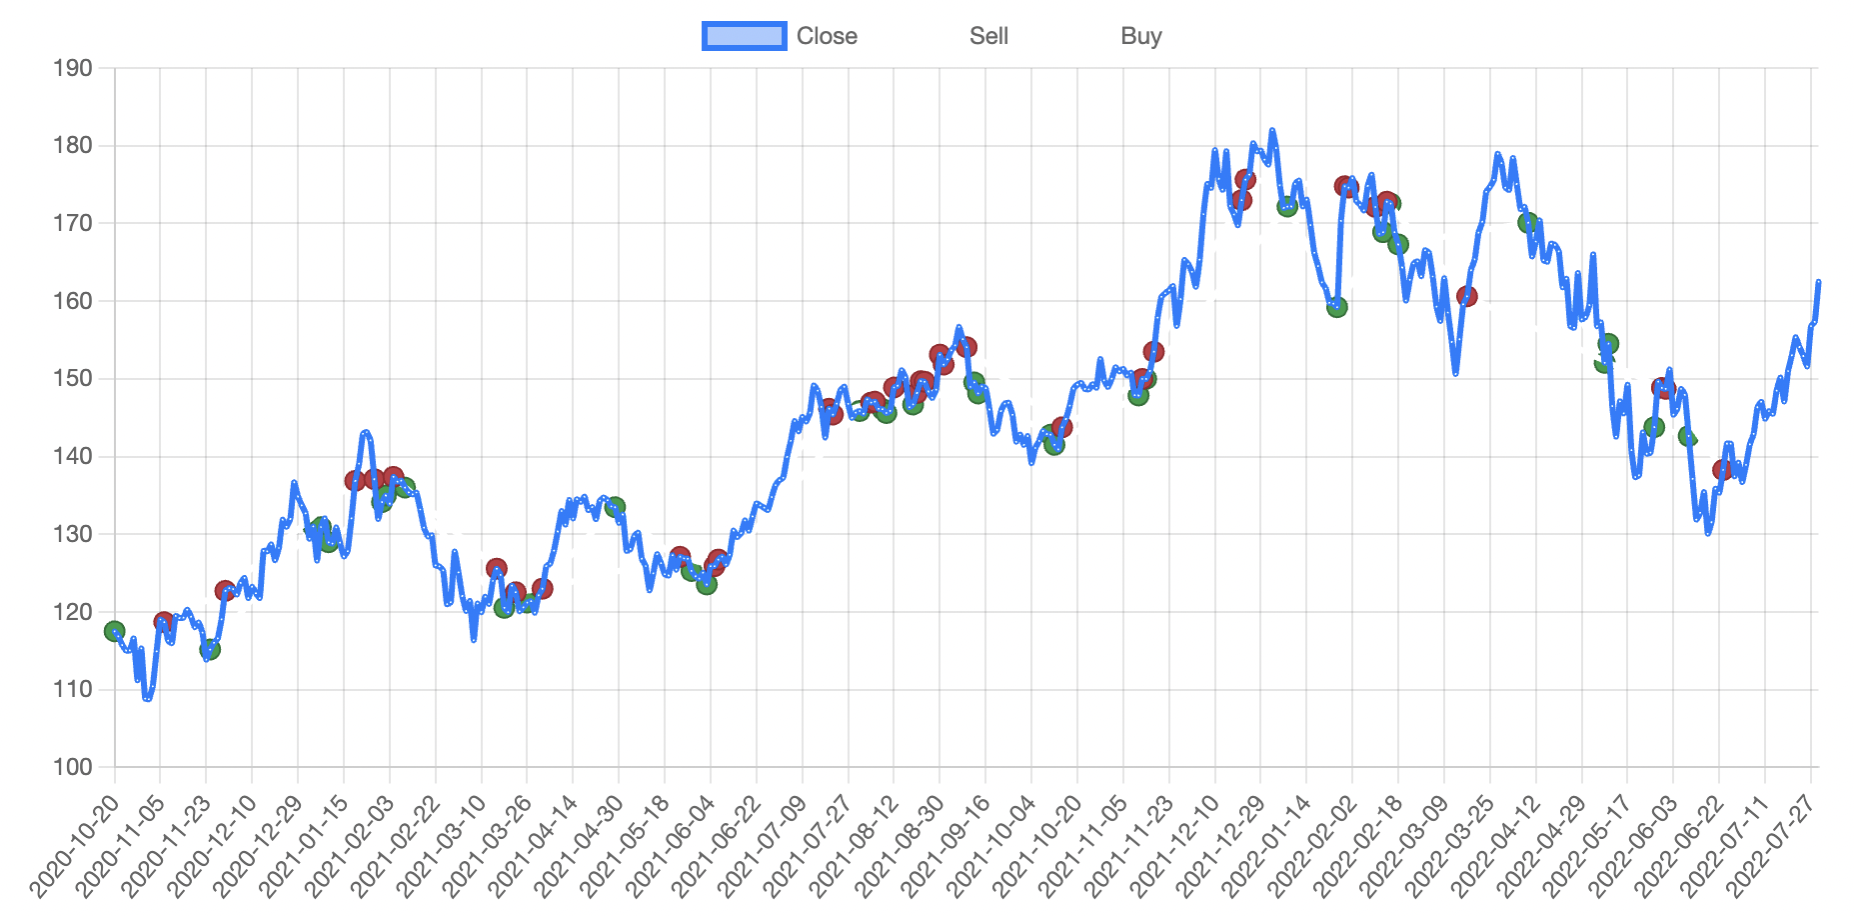
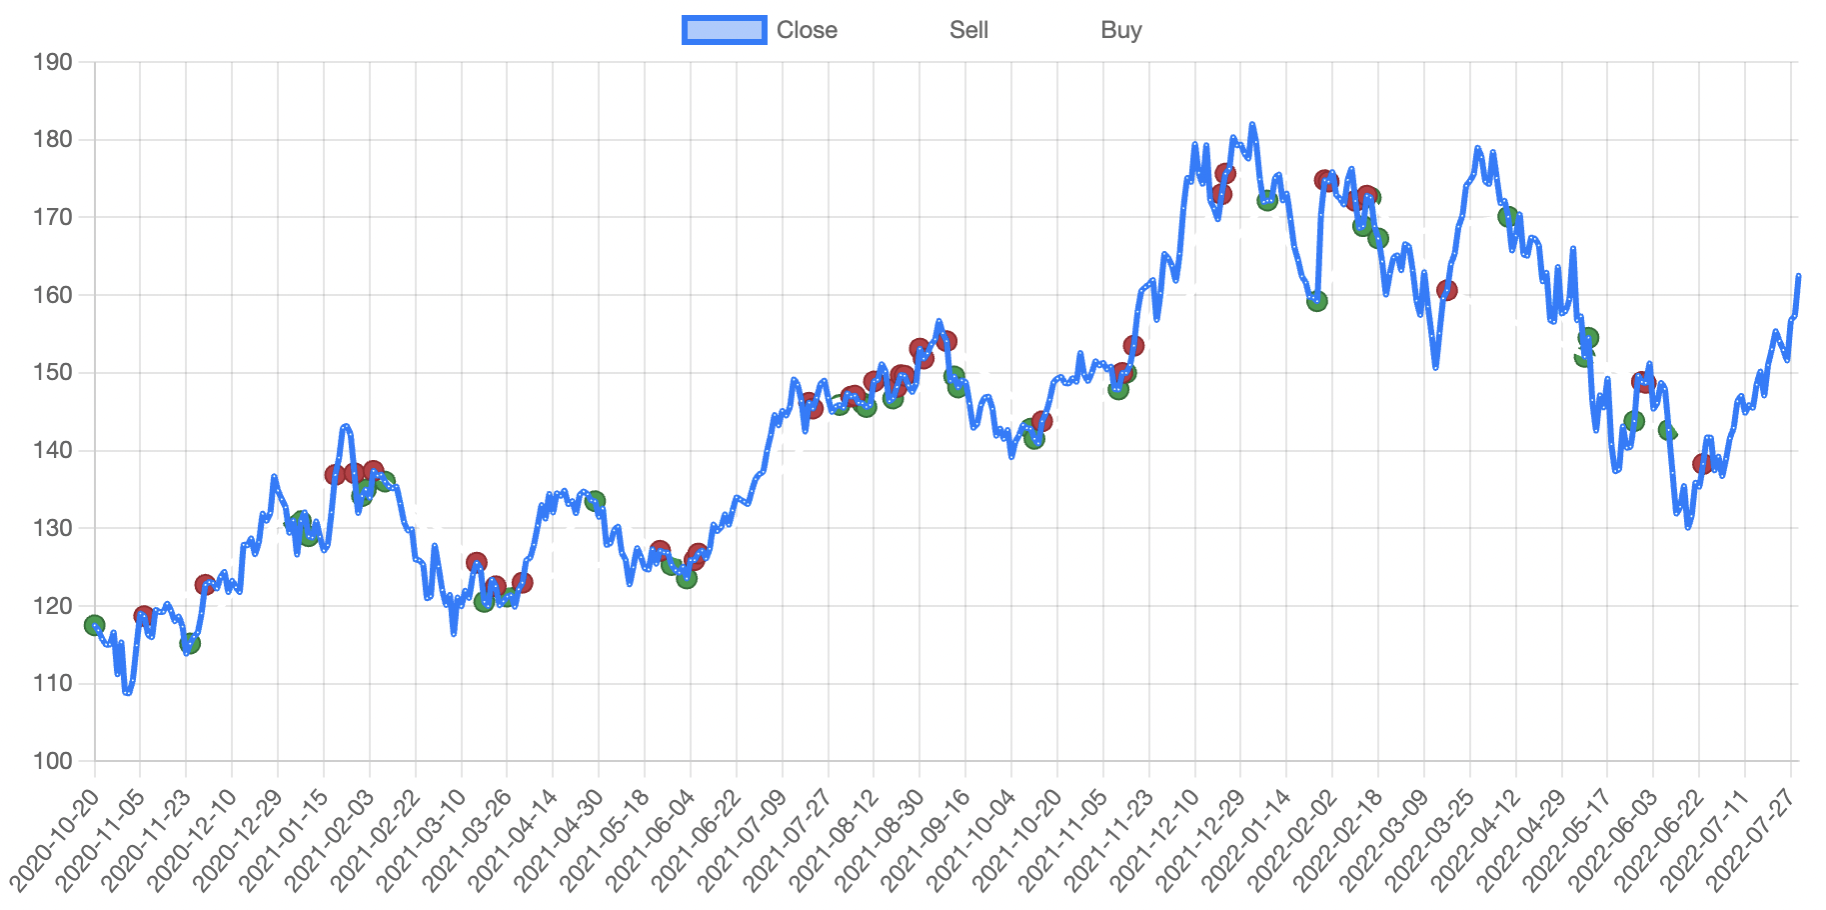
updated descriptions

diff --git a/frontend/pages/strategies/mean-reversion/index.tsx b/frontend/pages/strategies/mean-reversion/index.tsx
@@ -30,7 +30,7 @@ const MeanReversionStrategy = ({
                 <div style={{}}>
                     <p>Mean-reversion strategies work on the assumption that there is an underlying stable trend in the price of an asset and prices fluctuate randomly around this trend. Therefore, values deviating far from the trend will tend to reverse direction and revert back to the trend.<br></br>
                     <br></br>For example, look at the graph on the top right. The blue line represents the <strong>closing price of the selected stock on each day</strong>. The orange line represents the <strong>20 day moving average</strong>, the average price of the stock over the last 20-day period. The gray shaded region on the graph represents the <strong>bollinger bands</strong>, which shows a standard deviation level above and below the moving average of the stock's price.<br></br>
-                    <br></br>This strategy relies on the assumption that the price of the stock will eventually revert back to its average levels. The common analogy is that it should act like a rubber band: if its stretched too far out, it will snap right back. With mean reversion, it is possible to find profitable trades when the close price extends past the bounds of the bollinger bands. <u>If the close price is <i>higher</i> than the upper bollinger bound, then <i>buying</i> the stock would be profitable.</u> <u>If the close price is <i>lower</i> than the lower bollinger bound, then <i>selling</i> the stock would be a profitable move.</u> The graph on the bottom right displays the buying and selling points of the graph above it.<br></br>
+                    <br></br>This strategy relies on the assumption that the price of the stock will eventually revert back to its average levels. The common analogy is that it should act like a rubber band: if its stretched too far out, it will snap right back. With mean reversion, it is possible to find profitable trades when the close price extends past the bounds of the bollinger bands. <u>If the close price is <i>higher</i> than the upper bollinger bound, then <i>selling</i> the stock would be profitable.</u> <u>If the close price is <i>lower</i> than the lower bollinger bound, then <i>buying</i> the stock would be a profitable move.</u> The graph on the bottom right displays the buying and selling points of the graph above it.<br></br>
                     <br></br>Ready to see for yourself? Just select a stock, enter your desired period and multiplier, and generate your graphs!
                     </p>
                     <div style={{textAlign: "center", padding: "15px"}}>

diff --git a/frontend/pages/stocks/[id].tsx b/frontend/pages/stocks/[id].tsx
@@ -627,7 +627,7 @@ const Stock = ({
                         <h1 className="inline-block text-l mt-5 font-small mb-2 mr-5">Multiplier Percentage</h1>
                         <input className="inline-block p-2 bg-gray-50 border border-gray-300 text-gray-900 text-sm rounded-lg focus:ring-blue-500 focus:border-blue-500" placeholder="Period Number" onChange={(event: React.ChangeEvent<HTMLInputElement>) => setMeanMultipler(parseFloat(event.target.value) / 1000)} defaultValue={meanMultipler}></input>
                     </div>
-                    <p className="text-zinc-600 mb-10"> Buy (sell) indicators are based on being above (below) the upper (lower) bollinger. <u> This specifies how far above or below the bollinger the price should be before indiciating buy or sell. Higher percentage means more relaxed indicator constraints for buy or sell signals.</u></p>
+                    <p className="text-zinc-600 mb-10"> Buy (sell) indicators are based on being below (above) the lower (upper) bollinger. <u> This specifies how far above or below the bollinger the price should be before indiciating buy or sell. Higher percentage means more relaxed indicator constraints for buy or sell signals.</u></p>
                 </>
             case 2:
                 return <>
